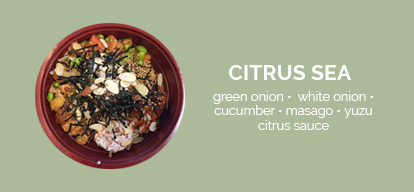
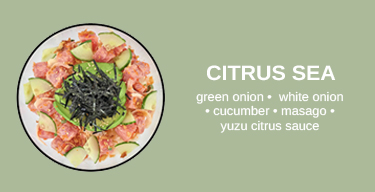
menu first section done

Changed region(s): [[0.0293, 0.0938, 0.4693, 0.9062], [0.4987, 0.4688, 0.9387, 0.6875], [0.528, 0.3125, 0.9093, 0.4375]]

diff --git a/public/css/menu.css b/public/css/menu.css
@@ -11,23 +11,23 @@
 
 .page-title {
   width: 100%;
-  height: 2.7rem;
+  height: 4rem;
 }
 
 .menu-title{
-  font-size: 1.5rem;
+  font-size: 2.5rem;
   position: absolute;
-  top:-0.2rem;
   width: 100%;
   text-align: center;
-  letter-spacing:0.5rem;
+  letter-spacing:0.2rem;
   left: 0;
   right: 0;
+  margin-top: 0.5rem;
 }
 
 .menu-signature-container {
   width: 100%;
-  height: 14rem;
+  height: 18rem;
   overflow-x: scroll;
   overflow-y: hidden;
 }
@@ -41,16 +41,20 @@
 .signature-title {
   position: relative;
   text-align: center;
-  font-size: 1.5rem;
+  font-size: 1rem;
   bottom: -1rem;
-  font-family: 'Raleway', sans-serif;
+  font-family: 'Oswald', sans-serif;
   font-weight:300;
+}
+.title-1{
+  font-weight:400;
+  font-size: 1.8rem;
 }
 
 .items-containers {
   width: 100%;
   position: relative;
-  top: 5rem;
+  top: 8rem;
   height: 6rem;
   display: flex;
   flex-direction: row;
@@ -72,6 +76,7 @@
   text-align: center;
   font-family: 'Raleway', sans-serif;
   font-weight:300;
+  margin-top: 1rem;
 }
 
 .arrow-down {
@@ -100,7 +105,7 @@
   border-left: 3rem solid transparent;
   border-right: 3rem solid transparent;
 
-  border-top: 1rem solid white;
+  border-top: 1.2rem solid white;
 }
 
 
@@ -196,11 +201,7 @@
   height: 120rem;
 }
 
-.menu-start {
-  font-size: 2rem;
-  text-align: center;
-  margin-top: 0.5rem;
-}
+
 
 .menu-box-step {
   font-size: 1.5rem;
@@ -323,6 +324,13 @@
   align-items: center;
   font-family: 'Raleway', sans-serif;
   font-weight:300;
+}
+.menu-start {
+  font-size: 1.8rem;
+  text-align: center;
+  margin-top: 0.5rem;
+  font-family: 'Oswald', sans-serif;
+  font-weight:400;
 }
 
 @media (min-width: 700px) {

diff --git a/public/css/main.css b/public/css/main.css
@@ -3,7 +3,7 @@
 @import url('https://fonts.googleapis.com/css?family=Raleway');
 @import url('https://fonts.googleapis.com/css?family=Playball');
 @import url('https://fonts.googleapis.com/css?family=Oswald:300,400');
-
+@import url('https://fonts.googleapis.com/css?family=Pacifico');
 
 
 * {
@@ -645,30 +645,26 @@ a:visited{
   color: #ACBA9A;
 }
 #about-page-div{
-  background-image: url('/images/nav2.jpg');
-  background-size: cover;
+
   position: relative;
 }
 #menu-page-div{
-  background-image: url('/images/nav2.jpg');
-  background-size: cover;
+
   position: relative;
 }
 #gallery-page-div{
-  background-image: url('/images/nav2.jpg');
-  background-size: cover;
+
   position: relative;
 }
 
 #contact-page-div{
-  background-image: url('/images/nav2.jpg');
-  background-size: cover;
+  position: relative;
 }
 
 
 .page-title-color-font{
-    font-family: 'Playball', cursive;
-  color: white;
+    font-family: 'Pacifico', cursive;
+  color: #ACBA9A;
 }
 
 .bot-nav-phone, .bot-nav-location, .bot-nav-hour{
